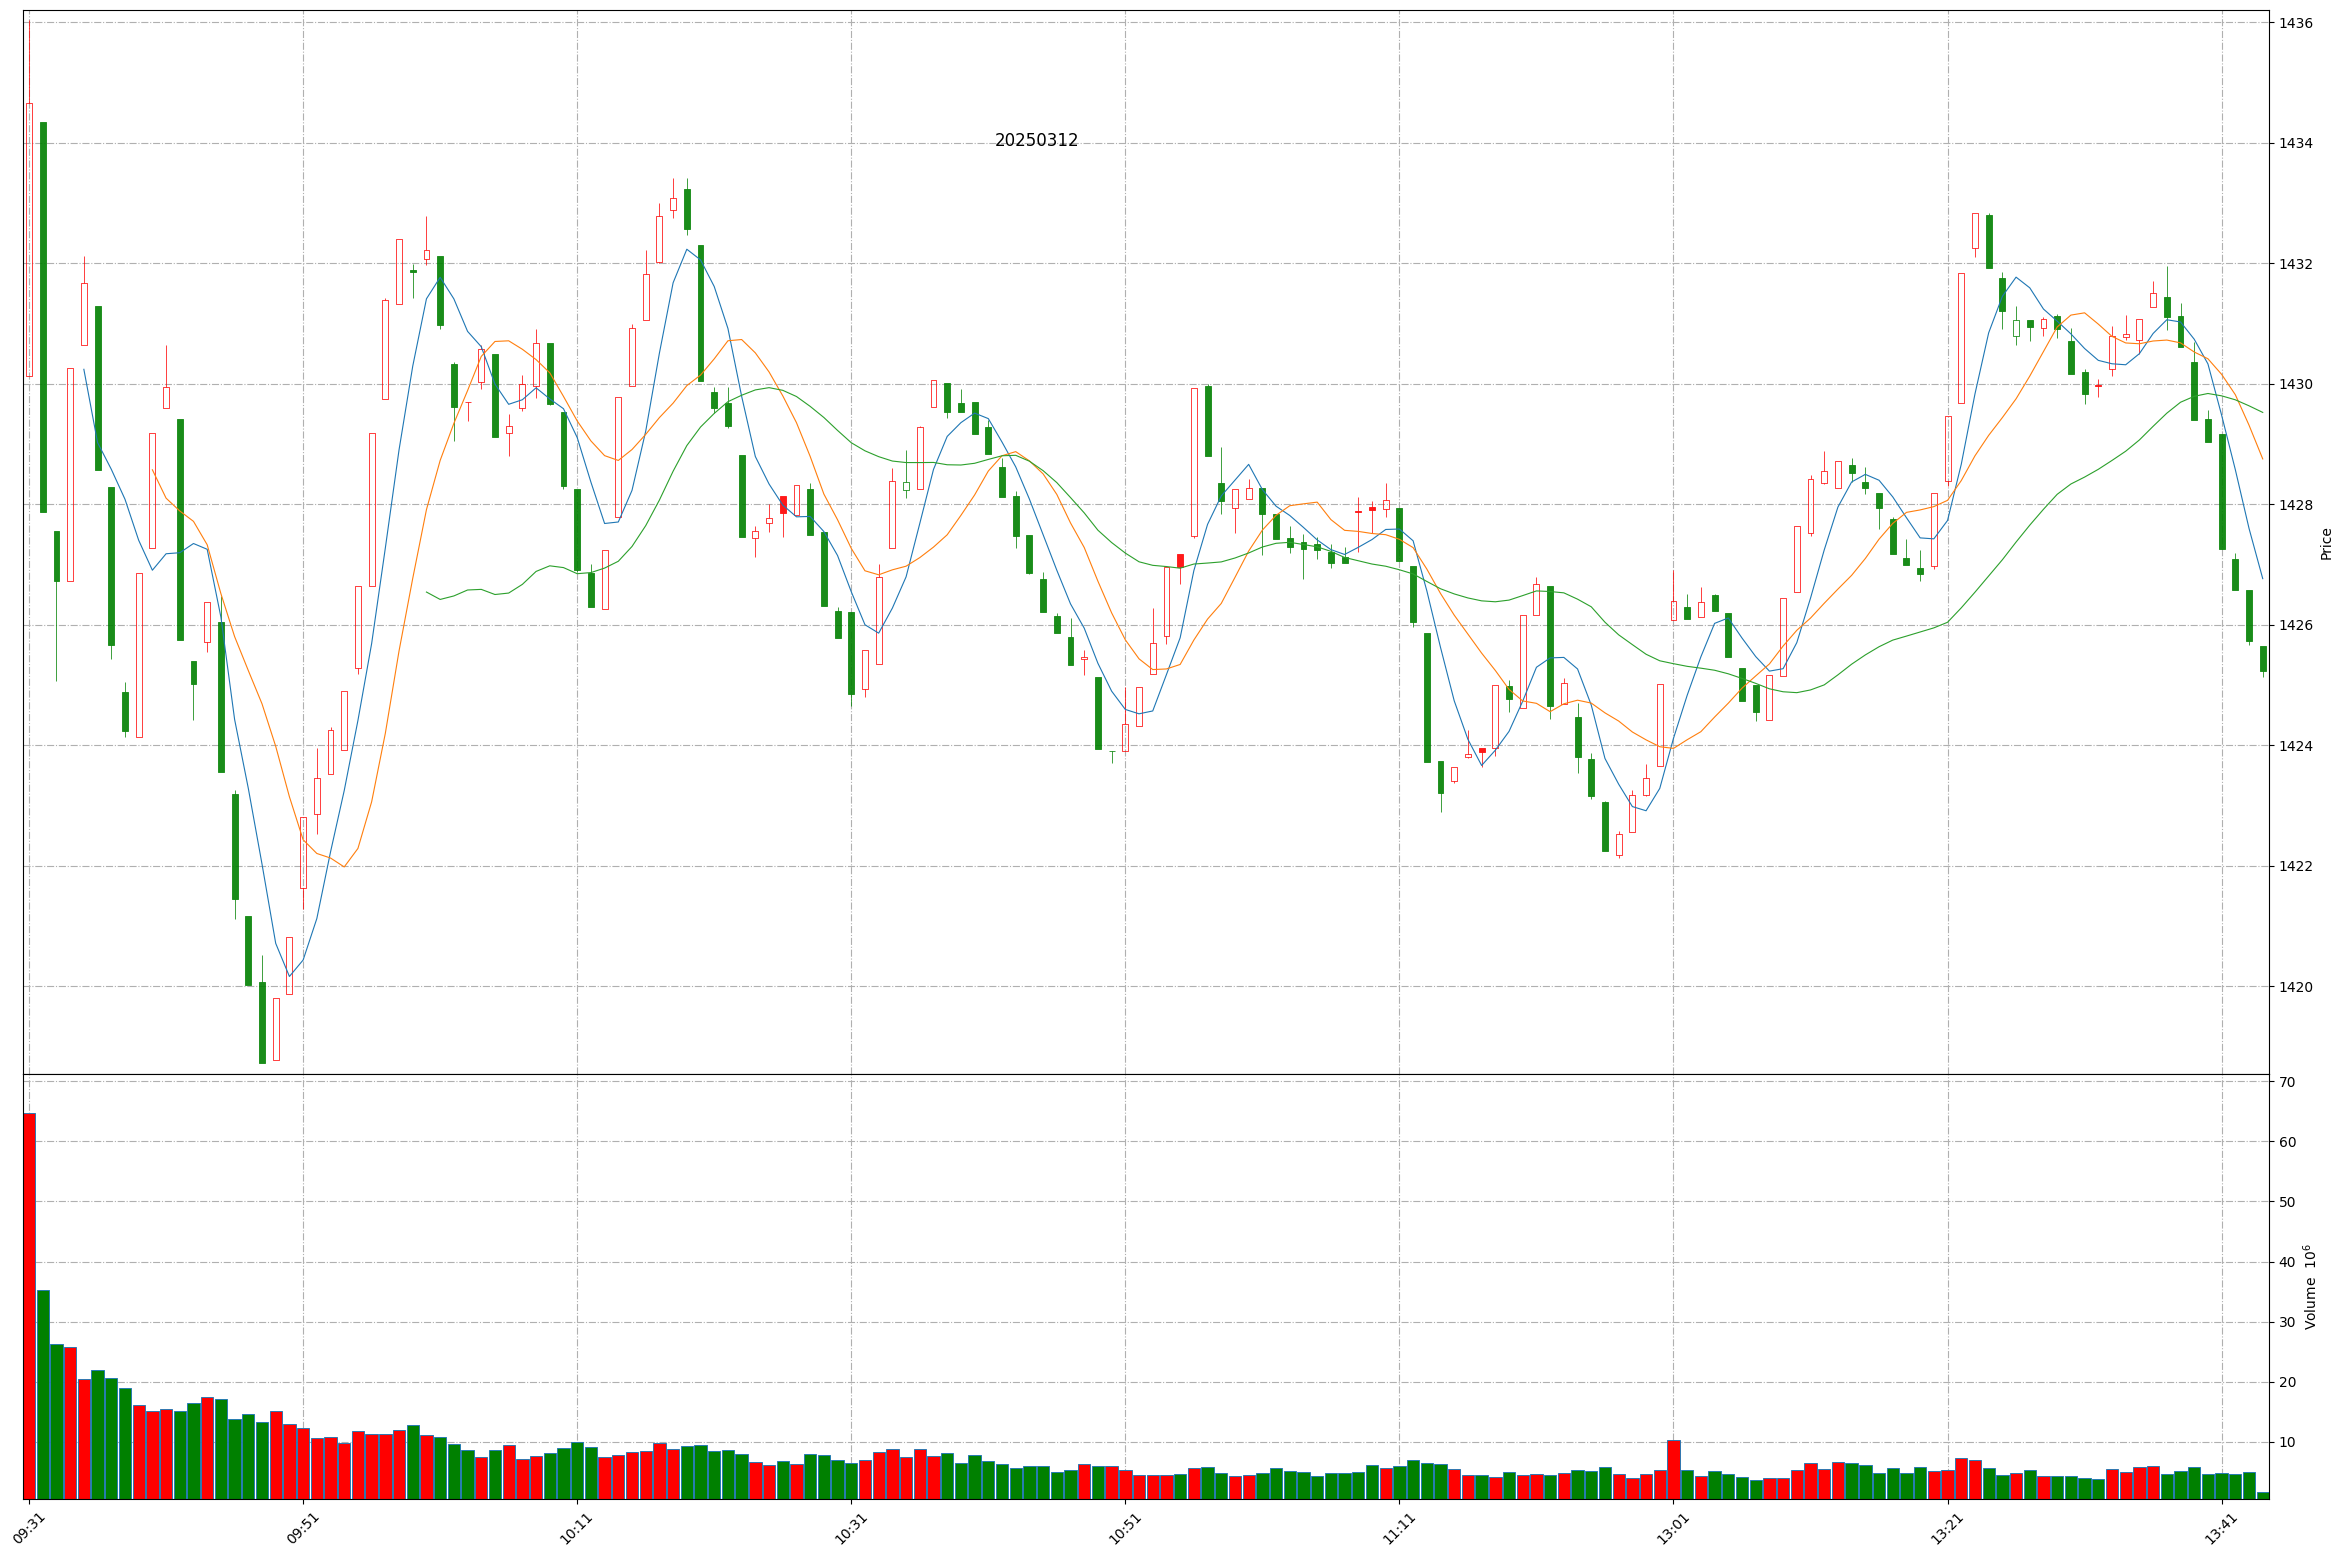
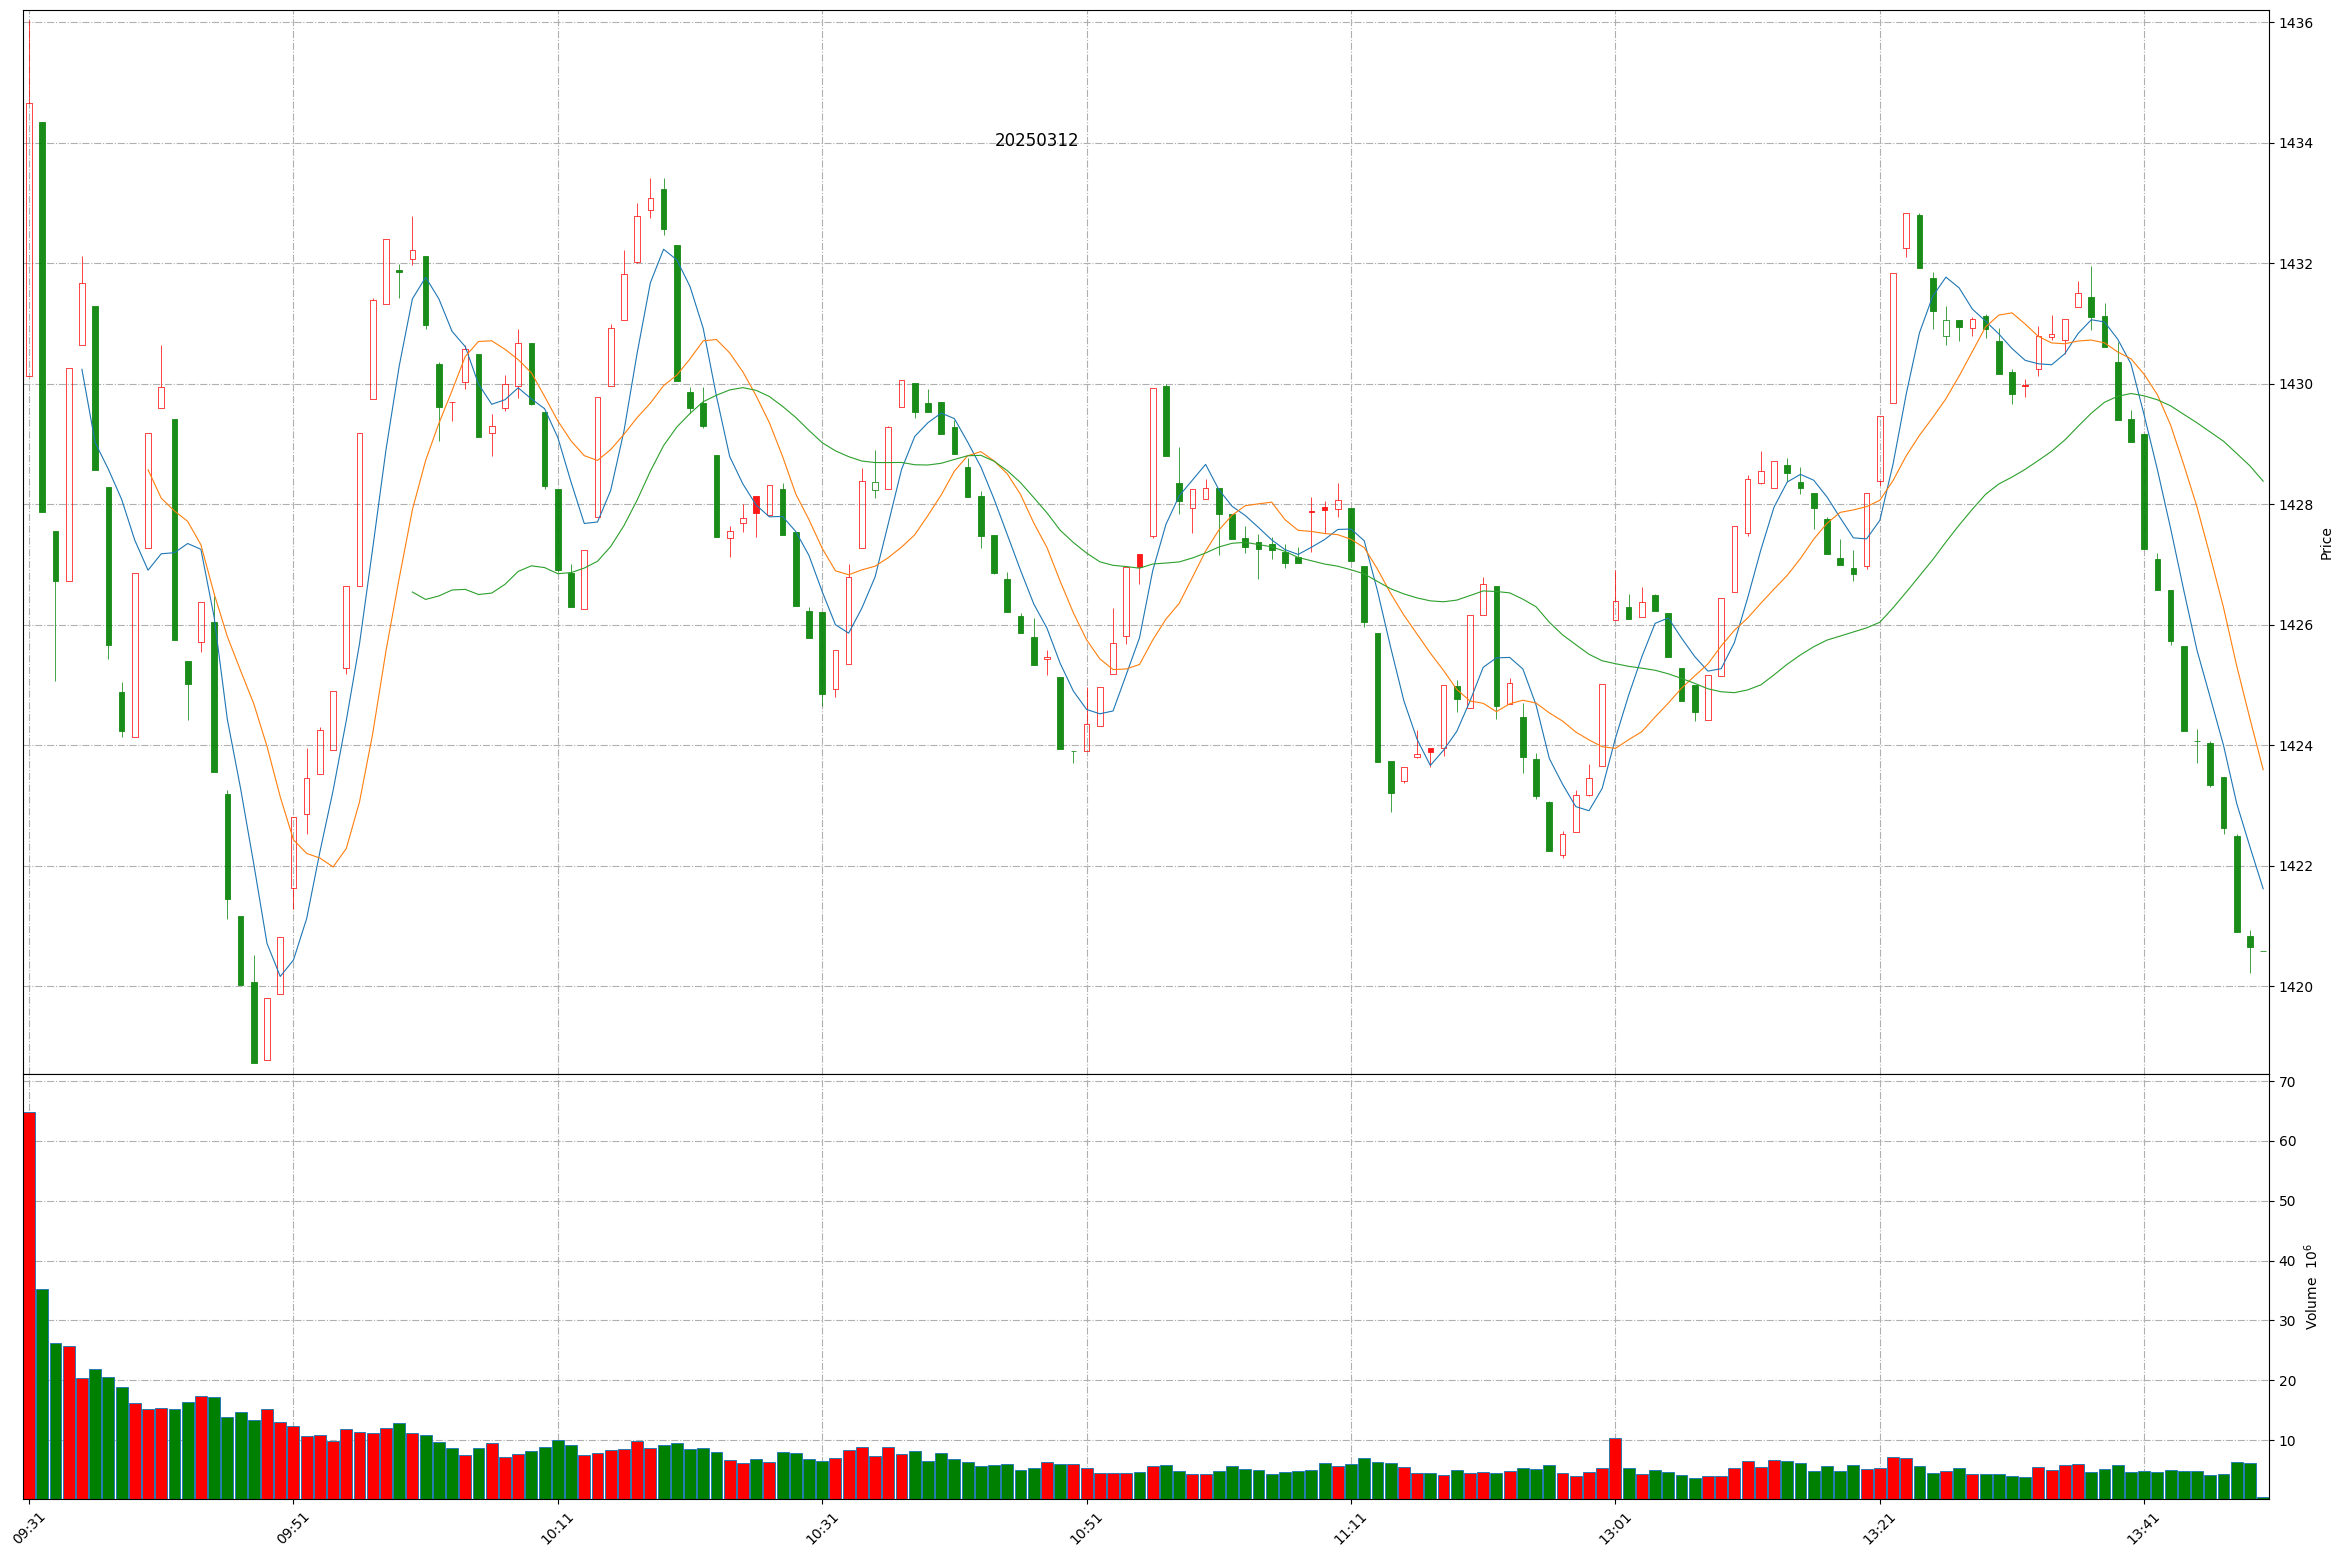
Github action update at 2025-03-12 13:49:21.

diff --git a/README.md b/README.md
@@ -1,11 +1,11 @@
 
 # Daily-A-share-market-quotes 每日 A 股指数（5min 更新）- 20250312
 
-### 上证指数 20250312 13:43
+### 上证指数 20250312 13:49
 ![](./fig/2025/3/20250312-sh000001.png)
 
-### 深证成指 20250312 13:43
+### 深证成指 20250312 13:49
 ![](./fig/2025/3/20250312-sz399001.png)
 
-### 北证50 20250312 13:43
+### 北证50 20250312 13:49
 ![](./fig/2025/3/20250312-bj899050.png)
